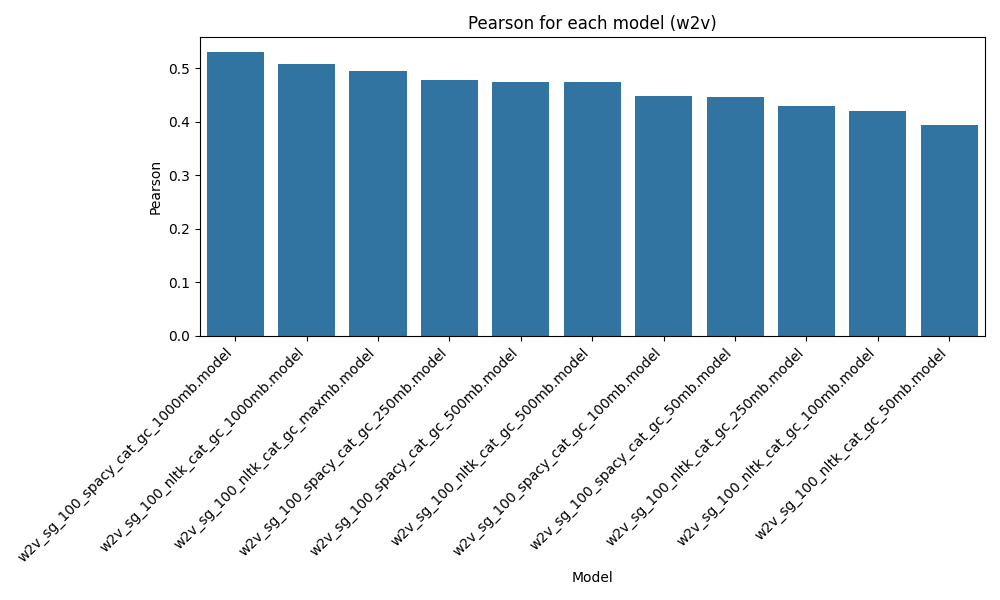
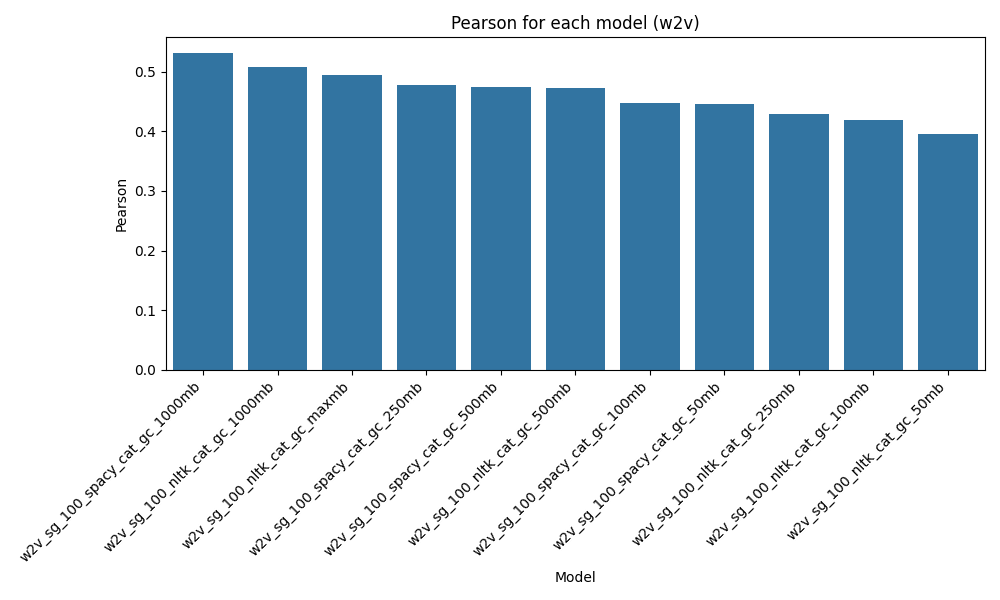
FIX names in plots

diff --git a/evaluate_models.py b/evaluate_models.py
@@ -117,6 +117,8 @@ def evaluate_models(save: bool=True) -> pd.DataFrame:
 ################################################################################
 # Functions to generate the plots
 
+# Calculate the size of the full dataset in MB
+print("Calculating the size of the full dataset in MB to adjust the scale of the plots...")
 FULL_DATA_SIZE_MB = int(round(calculate_full_dataset_size(), 0))
 
 def generate_model_barplot(results_df: pd.DataFrame, metric: str, family: str='all') -> None:
@@ -145,6 +147,9 @@ def generate_model_barplot(results_df: pd.DataFrame, metric: str, family: str='a
 
 	# Sort the values by the metric (descending order, except for 'OOV Ratio')
 	results_filtered_df = results_filtered_df.sort_values(by=metric, ascending=(metric == 'OOV Ratio'))
+
+	# Remove .model from the model names
+	results_filtered_df['Model'] = results_filtered_df['Model'].apply(lambda x: x.removesuffix('.model'))
 
 	# Generate the barplot
 	plt.figure(figsize=(10, 6))
@@ -226,7 +231,7 @@ def generate_size_plot(results_df: pd.DataFrame, metric: str, family: str) -> No
 	results_filtered_df['Size'] = results_filtered_df['Model'].apply(lambda x: x.split('_')[-1].split('.')[0].removesuffix('mb'))
 	results_filtered_df['Size'] = results_filtered_df['Size'].apply(lambda x: int(x) if x != 'max' else FULL_DATA_SIZE_MB)
 
-	results_filtered_df['Model'] = results_filtered_df['Model'].apply(lambda x: '_'.join(x.split('_')[:-2]))
+	results_filtered_df['Model'] = results_filtered_df['Model'].apply(lambda x: '_'.join(x.split('_')[:-1]))
 
 	# Define the ticks and labels for the x-axis
 	ticks = results_filtered_df['Size'].unique()
